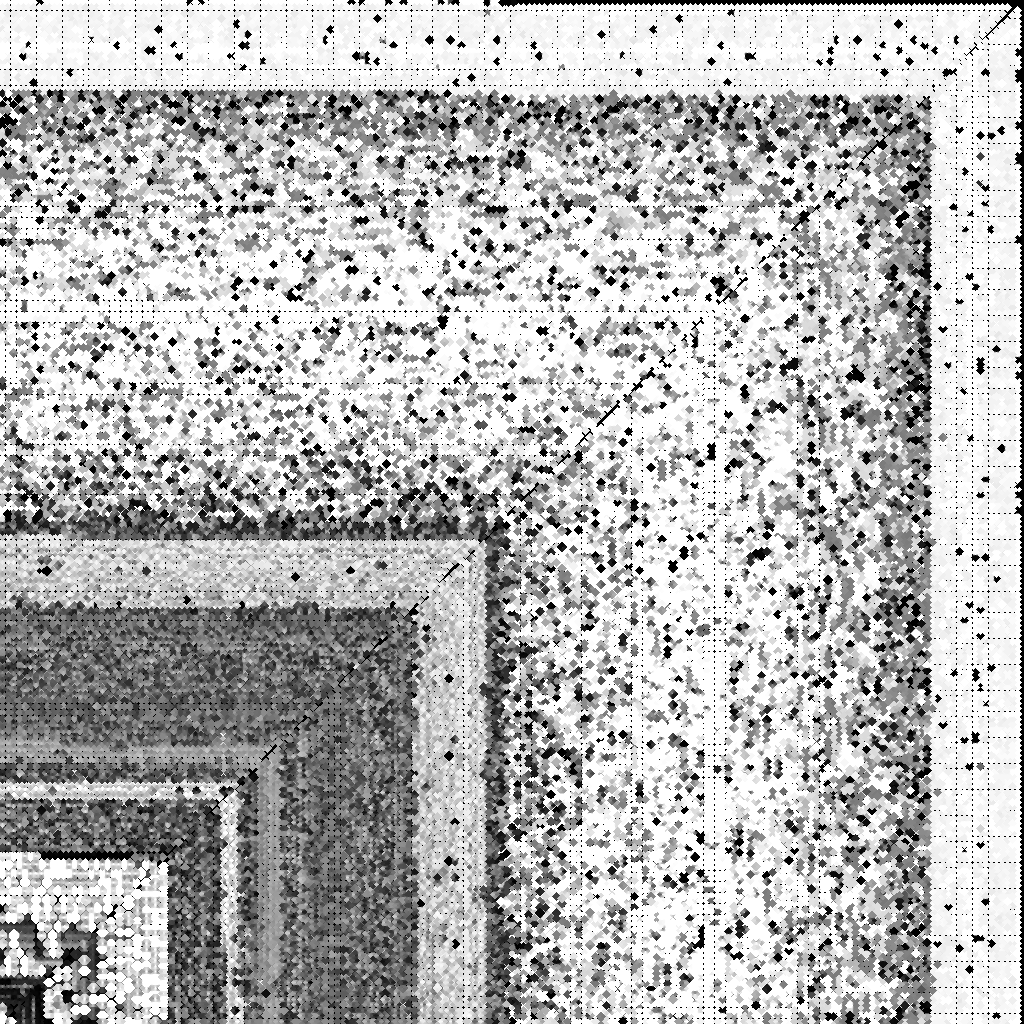
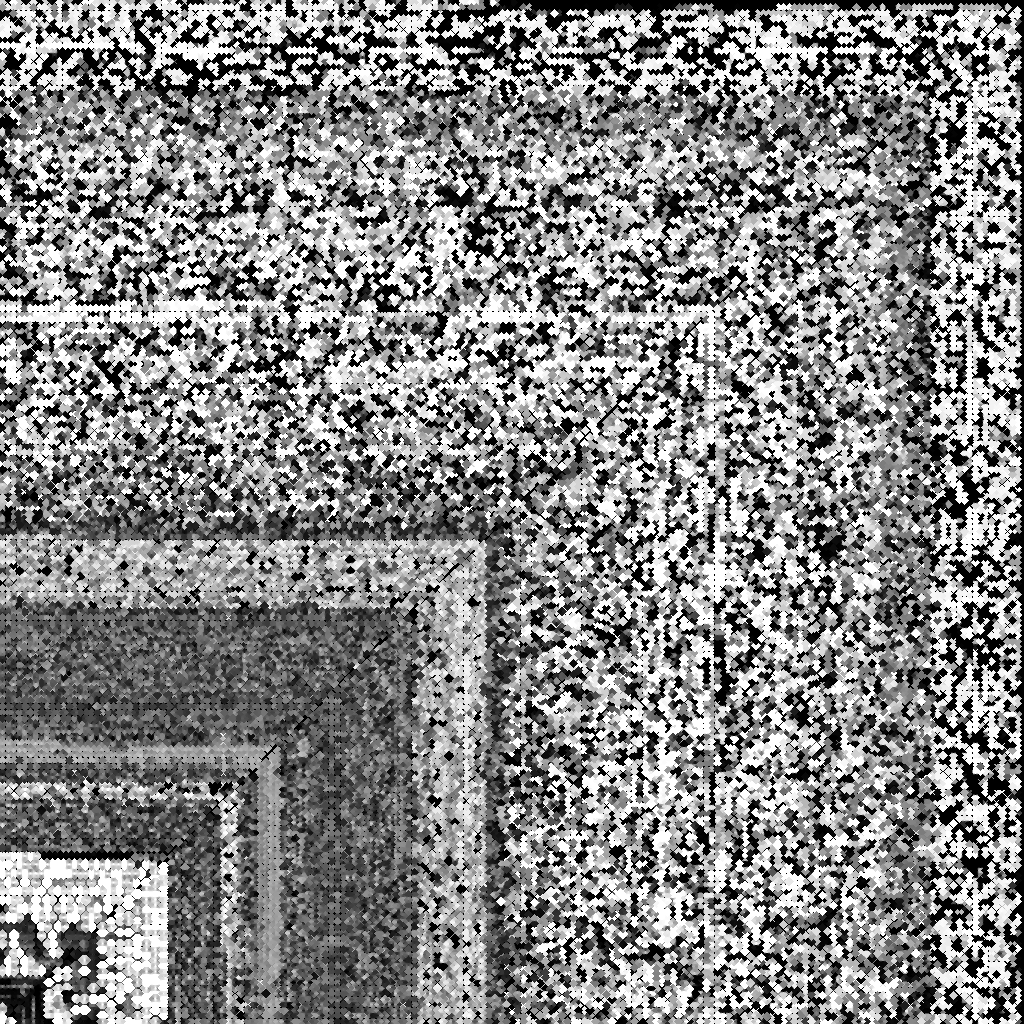
Plan: WP-B2 marked partial, kit vertex AO split into WP-B2b

diff --git a/assets_src/pipeline/bake_road_ao.py b/assets_src/pipeline/bake_road_ao.py
@@ -5,14 +5,16 @@ The wet asphalt shader has no SSAO on Mobile, so the road gets its contact darke
   1. imports the road GLB and gives every road mesh object (all but the "ground" and the water / ground materials) a
      second UV map "UV2": one atlas shared by the whole road, so kerbs, wall bases and the carriageway all sit in
      one 1024 px image;
-  2. bakes Cycles ambient occlusion (distance 3 m) into that image; the rest of the scene, ground included, occludes;
+  2. bakes Cycles ambient occlusion (distance 3 m) into that image. The GLB's own kerbs, walls and ground occlude, and
+     so does every building in the layout JSON (a box per building instance, footprint and height from the layout);
+     the boxes are only in the bake scene and are deleted before the export;
   3. saves the bake as a greyscale PNG next to the GLB (<name>_ao.png, 1 = open sky) and re-exports the GLB with
      TEXCOORD_1 added and COLOR_0 (the authored puddle / wear colours) unchanged.
 
 The shader samples the PNG with UV2 (wet_asphalt.gdshader, ao_tex). MaterialLibrary.bind_road_ao() loads it.
 
 Usage (Blender 5.3 background, after --):
-  blender -b --factory-startup --python bake_road_ao.py -- <in.glb> <out.glb> <out_ao.png> [res=1024] [samples=64]
+  blender -b --factory-startup --python bake_road_ao.py -- <in.glb> <out.glb> <out_ao.png> [res=1024] [samples=64] [layout.json]
 Prints one line "ROAD_AO_JSON {...}" with the round-trip checks: TEXCOORD_1 and COLOR_0 counts per primitive.
 Shortcut: one atlas for the whole road at 1024 px (about 0.3 m per texel), upgrade to per-chunk atlases if the
 contact darkening reads too soft at the kerbs on the Mobile sheets.
@@ -31,8 +33,12 @@ RES = int(ARGV[3]) if len(ARGV) > 3 else 1024
 SAMPLES = int(ARGV[4]) if len(ARGV) > 4 else 64
 SKIP_MATS = {"M_Ground", "M_Water"}
 SKIP_NAMES = {"ground"}
+LAYOUT_JSON = ARGV[5] if len(ARGV) > 5 else None
 AO_DISTANCE_M = 3.0
 MARGIN = 0.003
+BUILDING_KINDS = {"building", "building_lod2_only"}
+UNIT_CUBE_VERTS = [(x, y, z) for x in (-0.5, 0.5) for y in (-0.5, 0.5) for z in (-0.5, 0.5)]
+UNIT_CUBE_FACES = [(0, 1, 3, 2), (4, 6, 7, 5), (0, 4, 5, 1), (2, 3, 7, 6), (0, 2, 6, 4), (1, 5, 7, 3)]
 
 
 def log(*a):
@@ -49,6 +55,36 @@ def glb_primitive_stats(path):
     uv2 = sum(1 for p in prims if "TEXCOORD_1" in p["attributes"])
     col = sum(1 for p in prims if "COLOR_0" in p["attributes"])
     return dict(primitives=len(prims), with_uv2=uv2, with_color0=col)
+
+
+def add_building_occluders(layout_path):
+    """One box per building instance, Godot Y-up metres to Blender Z-up (x, -z, y), yaw about Z, unit cube scaled."""
+    with open(layout_path, encoding="utf-8") as fh:
+        instances = json.load(fh)["instances"]
+    mesh = bpy.data.meshes.new("AO_PROXY_MESH")
+    mesh.from_pydata(UNIT_CUBE_VERTS, [], UNIT_CUBE_FACES)
+    mesh.update()
+    count = 0
+    for it in instances:
+        if it.get("kind") not in BUILDING_KINDS:
+            continue
+        px, py, pz = it["position"]
+        w, d, h = it["width_m"], it["depth_m"], it["height_m"]
+        o = bpy.data.objects.new("AO_PROXY", mesh)
+        o.location = (px, -pz, py + 0.5 * h)
+        o.rotation_euler = (0.0, 0.0, it["yaw"])
+        o.scale = (w, d, h)
+        bpy.context.scene.collection.objects.link(o)
+        count += 1
+    log("building occluders", count)
+    return count
+
+
+def remove_building_occluders():
+    for o in [o for o in bpy.data.objects if o.name.startswith("AO_PROXY")]:
+        bpy.data.objects.remove(o, do_unlink=True)
+    for m in [m for m in bpy.data.meshes if m.name.startswith("AO_PROXY")]:
+        bpy.data.meshes.remove(m)
 
 
 def main():
@@ -99,6 +135,7 @@ def main():
             m.node_tree.nodes.active = node
 
     scene = bpy.context.scene
+    occluders = add_building_occluders(LAYOUT_JSON) if LAYOUT_JSON else 0
     scene.render.engine = "CYCLES"
     scene.cycles.samples = SAMPLES
     scene.cycles.use_denoising = False
@@ -129,7 +166,8 @@ def main():
     pixels = list(img.pixels)[0::4]
     log("ao min/mean/max", round(min(pixels), 3), round(sum(pixels) / len(pixels), 3), round(max(pixels), 3))
 
-    # 3. remove the bake nodes, export
+    # 3. remove the bake nodes and the occluder boxes, export
+    remove_building_occluders()
     for o in road:
         for slot in o.material_slots:
             m = slot.material
@@ -145,7 +183,7 @@ def main():
         export_active_vertex_color_when_no_material=True)
     stats = glb_primitive_stats(OUT_GLB)
     print("ROAD_AO_JSON " + json.dumps(dict(glb=os.path.basename(OUT_GLB), png=os.path.basename(OUT_PNG),
-                                            res=RES, samples=SAMPLES, road_objects=len(road), **stats)), flush=True)
+                                            res=RES, samples=SAMPLES, road_objects=len(road), occluders=occluders, **stats)), flush=True)
 
 
 main()

diff --git a/docs/research/lookdev/PRODUCTION_PLAN.md b/docs/research/lookdev/PRODUCTION_PLAN.md
@@ -191,6 +191,14 @@ Recipe: add a UV2 unwrap to each road GLB if it has none; Cycles AO bake, 1024 p
 GLBs get vertex AO the same way the Ortakoy kit did.
 Test: the road material has an AO texture; the ASSET_MANIFEST validator passes (`py -3.10 tools/asset_factory.py validate`).
 Evidence: `tod_tracks` day (section 6). Deps: none. GPU queue slot 2.
+Status (2026-11-28, partial): road AO done. The GLB's own kerbs and walls occlude, and every layout building (196, 313 and 249 boxes)
+is a bake-only occluder. Kit vertex AO is not done: split into WP-B2b. Road GLB sizes: City 01 10.5 -> 14.1 MB, Bogaz 11.2 -> 15.1 MB,
+Maslak 10.8 -> 14.7 MB (UV2 and tangents; not in the iOS budget check yet). Look: `tod_tracks` day checked (city, bogaz, maslak).
+
+**WP-B2b Kit vertex AO.** Goal: the Ortakoy-style vertex AO on the track kit GLBs (the part of WP-B2 left out).
+Files: `assets_src/pipeline/bake_vertex_ao.py`, the kit GLBs it names, their `game/assets` copies, `ASSET_MANIFEST.json`.
+Recipe: run the existing vertex AO bake on each kit GLB with the layout occluders, ship the GLBs, no shader change.
+Test: kit GLBs carry COLOR_0 AO; the ASSET_MANIFEST validator passes. Evidence: `tod_tracks` day. Deps: WP-B2. GPU queue slot 2.
 
 **WP-B3 Foliage diet.** Goal: same pink mass, less fill.
 Files: `assets_src/world/kit_trees/prepare_licensed_trees.py`, `game/assets/world/kits/trees_photo/**`,
